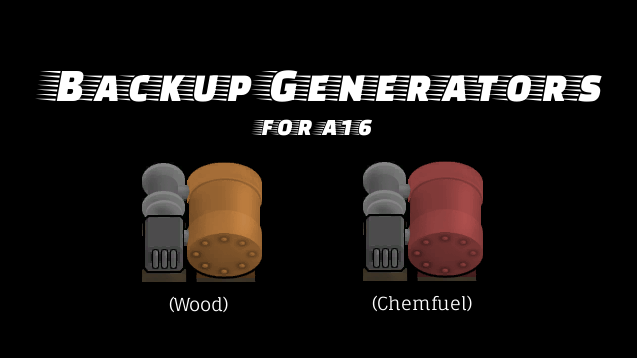
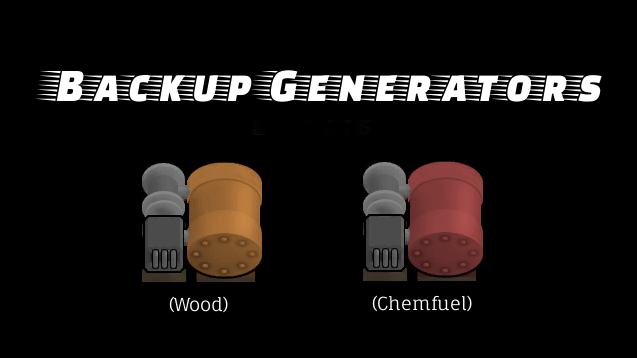
moving the deck chairs on the Titanic

Changed region(s): [[0.3878, 0.3073, 0.5965, 0.3994]]

diff --git a/Source/BackupGenerators/CompBackupPower.cs b/Source/BackupGenerators/CompBackupPower.cs
@@ -3,7 +3,7 @@
  * User: DamnationLtd
  * Date: 4/4/2017
  * Time: 10:10 AM
- * 
+ *
  * To change this template use Tools | Options | Coding | Edit Standard Headers.
  */
 using RimWorld;
@@ -21,7 +21,7 @@ namespace DLTD
 		protected CompRefuelableDualConsumption refuelableDualConsumptionComp;
 
 		protected CompBreakdownable breakdownableComp;
-		
+
 		private bool recharging = false;
 
 		protected virtual float DesiredPowerOutput
@@ -31,7 +31,7 @@ namespace DLTD
 				return -base.Props.basePowerConsumption;
 			}
 		}
-		
+
 		protected virtual bool IsCharging
 		{
 			get
@@ -57,14 +57,14 @@ namespace DLTD
 				{
 					this.recharging = false;
 				}
-				
+
 				return this.recharging;
 			}
 		}
 
 		public override void PostSpawnSetup(bool respawningAfterLoad)
 		{
-			base.PostSpawnSetup(true);
+			base.PostSpawnSetup(respawningAfterLoad);
 			this.refuelableComp = this.parent.GetComp<CompRefuelable>();
 			this.refuelableDualConsumptionComp = this.parent.GetComp<CompRefuelableDualConsumption>();
 			this.breakdownableComp = this.parent.GetComp<CompBreakdownable>();
@@ -77,7 +77,7 @@ namespace DLTD
 		public override void CompTick()
 		{
 			base.CompTick();
-			
+
 			if ((this.breakdownableComp != null && this.breakdownableComp.BrokenDown) ||
 			    (this.refuelableComp != null && !this.refuelableComp.HasFuel) ||
 			    (this.flickableComp != null && !this.flickableComp.SwitchIsOn) ||

diff --git a/Source/BackupGenerators/CompRefuelableDualConsumption.cs b/Source/BackupGenerators/CompRefuelableDualConsumption.cs
@@ -3,7 +3,7 @@
  * User: DamnationLtd
  * Date: 4/4/2017
  * Time: 9:15 PM
- * 
+ *
  * To change this template use Tools | Options | Coding | Edit Standard Headers.
  */
 using RimWorld;
@@ -22,7 +22,7 @@ namespace DLTD
 	public class CompRefuelableDualConsumption : ThingComp
 	{
 		protected CompRefuelable refuelableComp;
-		
+
 		private bool lowPowerMode = false;
 
 		public bool LowPowerMode
@@ -36,7 +36,7 @@ namespace DLTD
 				this.lowPowerMode = value;
 			}
 		}
-		
+
 		public CompProperties_RefuelableDualConsumption Props
 		{
 			get
@@ -55,10 +55,10 @@ namespace DLTD
 
 		public override void PostSpawnSetup(bool respawningAfterLoad)
 		{
-			base.PostSpawnSetup(true);
+			base.PostSpawnSetup(respawningAfterLoad);
 			this.refuelableComp = this.parent.GetComp<CompRefuelable>();
 		}
-		
+
 		public override void CompTick()
 		{
 			this.refuelableComp.Props.fuelConsumptionRate = this.CurrentConsumptionRate;

diff --git a/README.md b/README.md
@@ -38,6 +38,10 @@ Change Log
 * Since they generate some amount of heat, the heater hinting shows when placing generators
 * Documentation flub on 1.2
 
+-------------------------------------------------------------------------------------------
+2017/07/14, 1.2.2: A17 support
+* Thanks to ProximityMicrowave for beating me to the punch!
+
 Roadmap
 --------------------------------
 * ~Balance tweaks~
